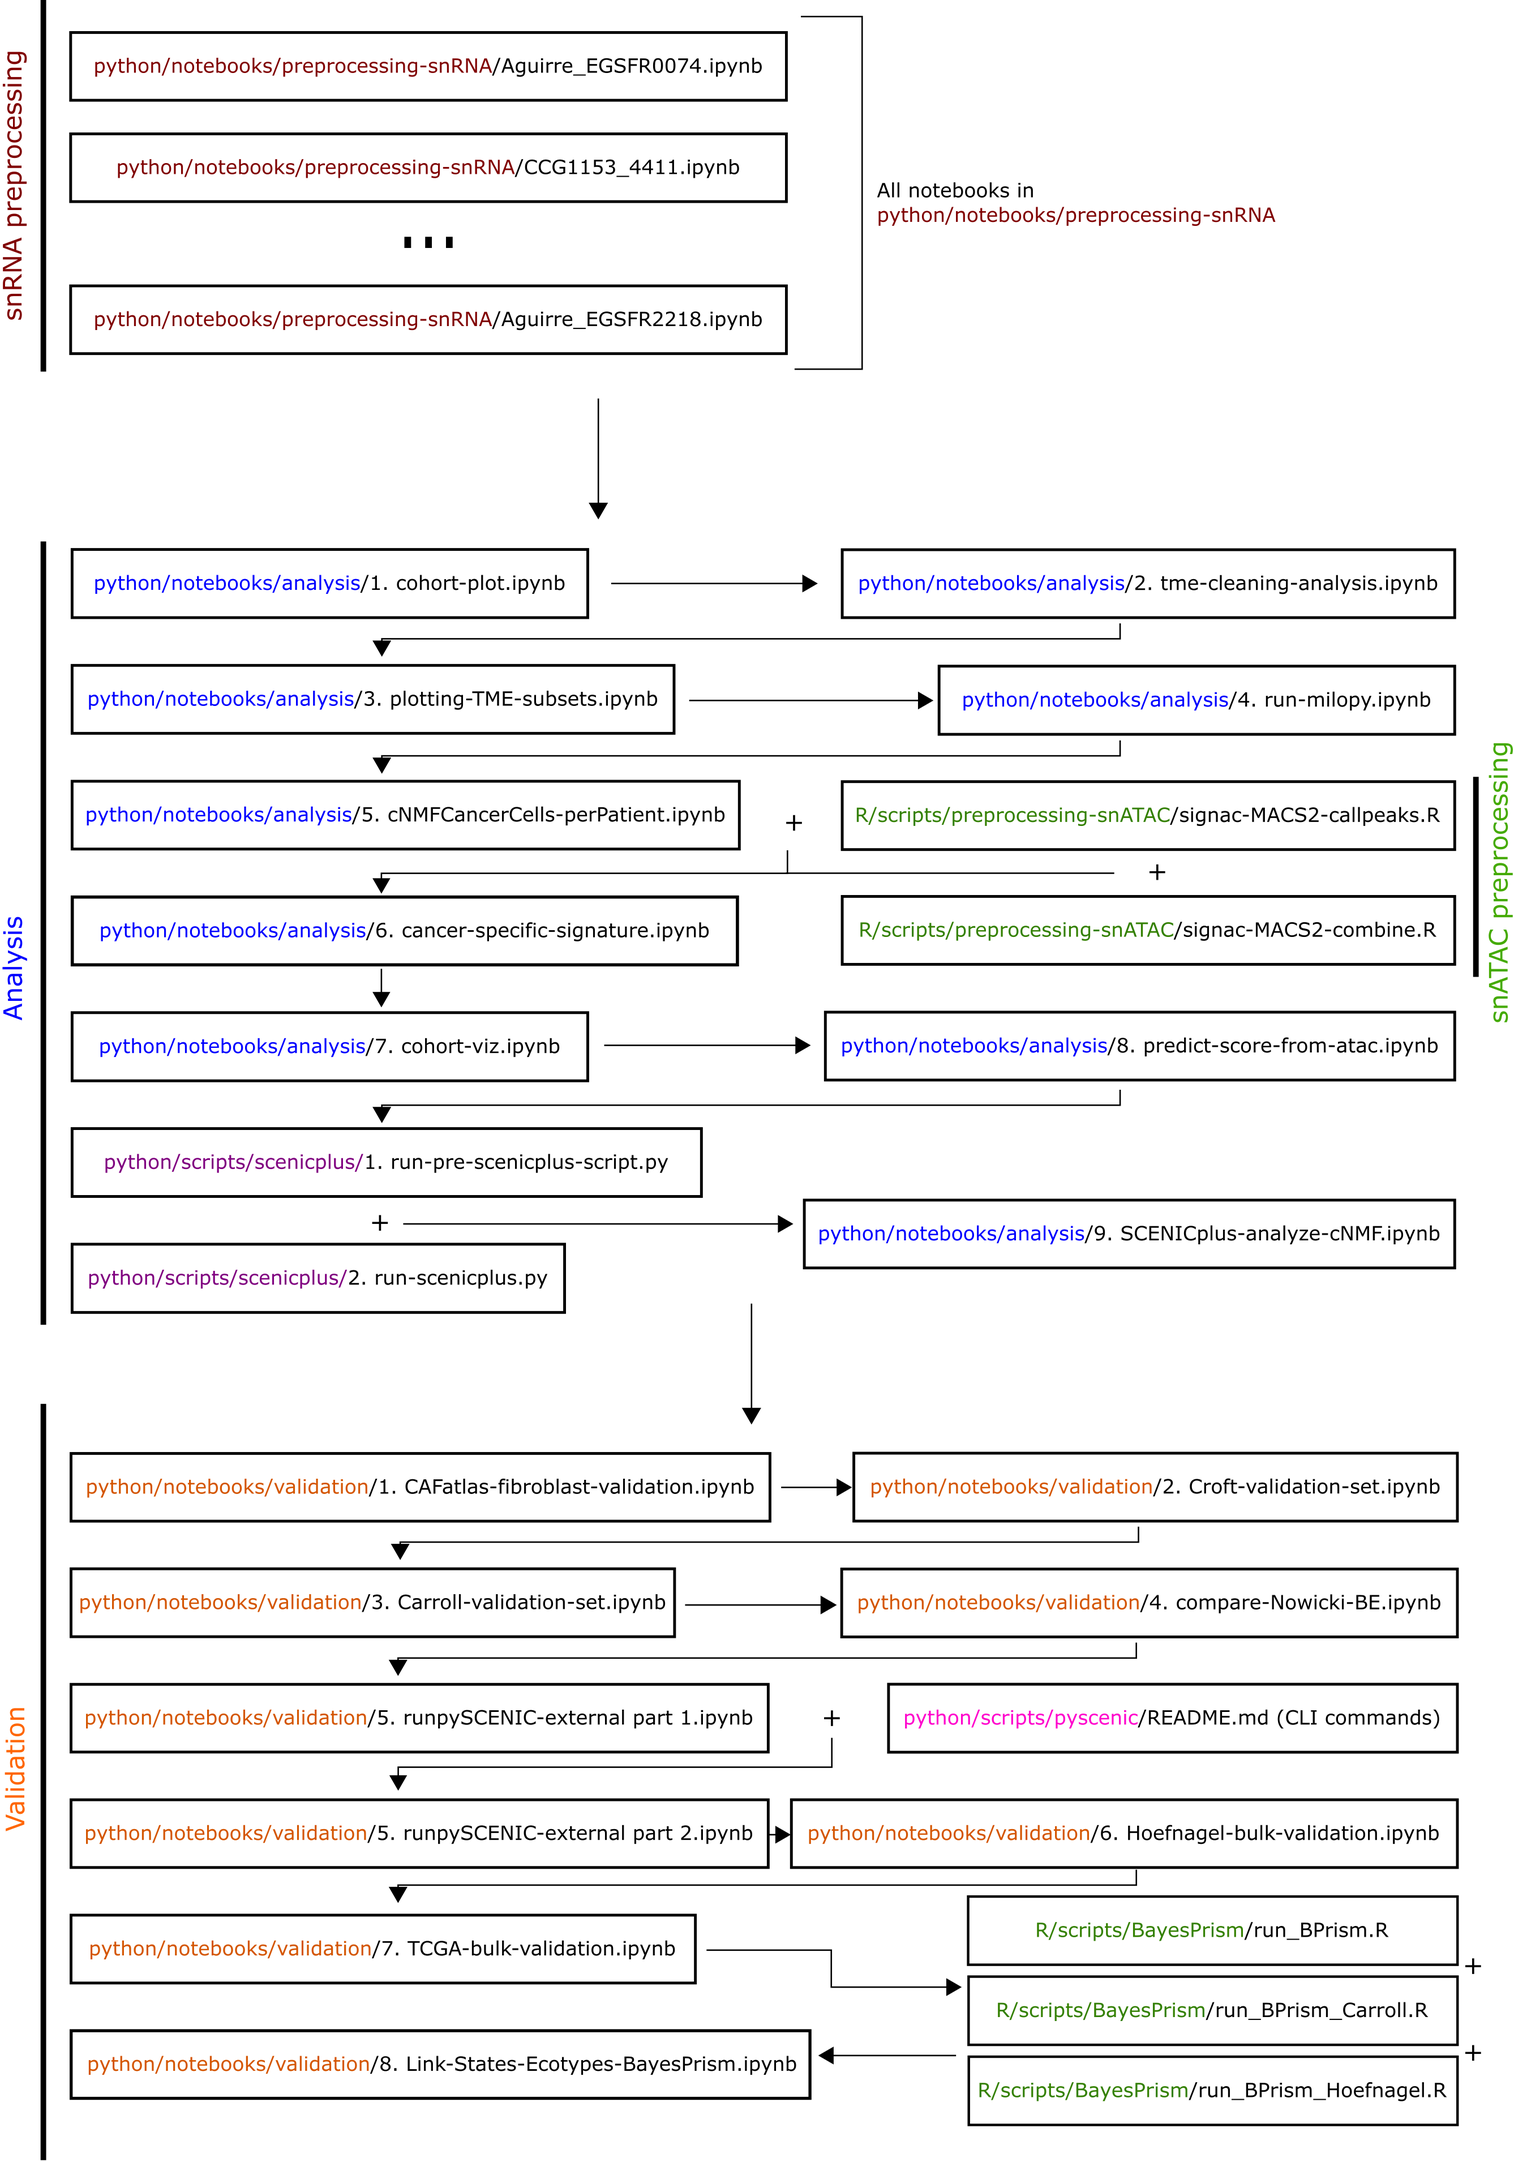
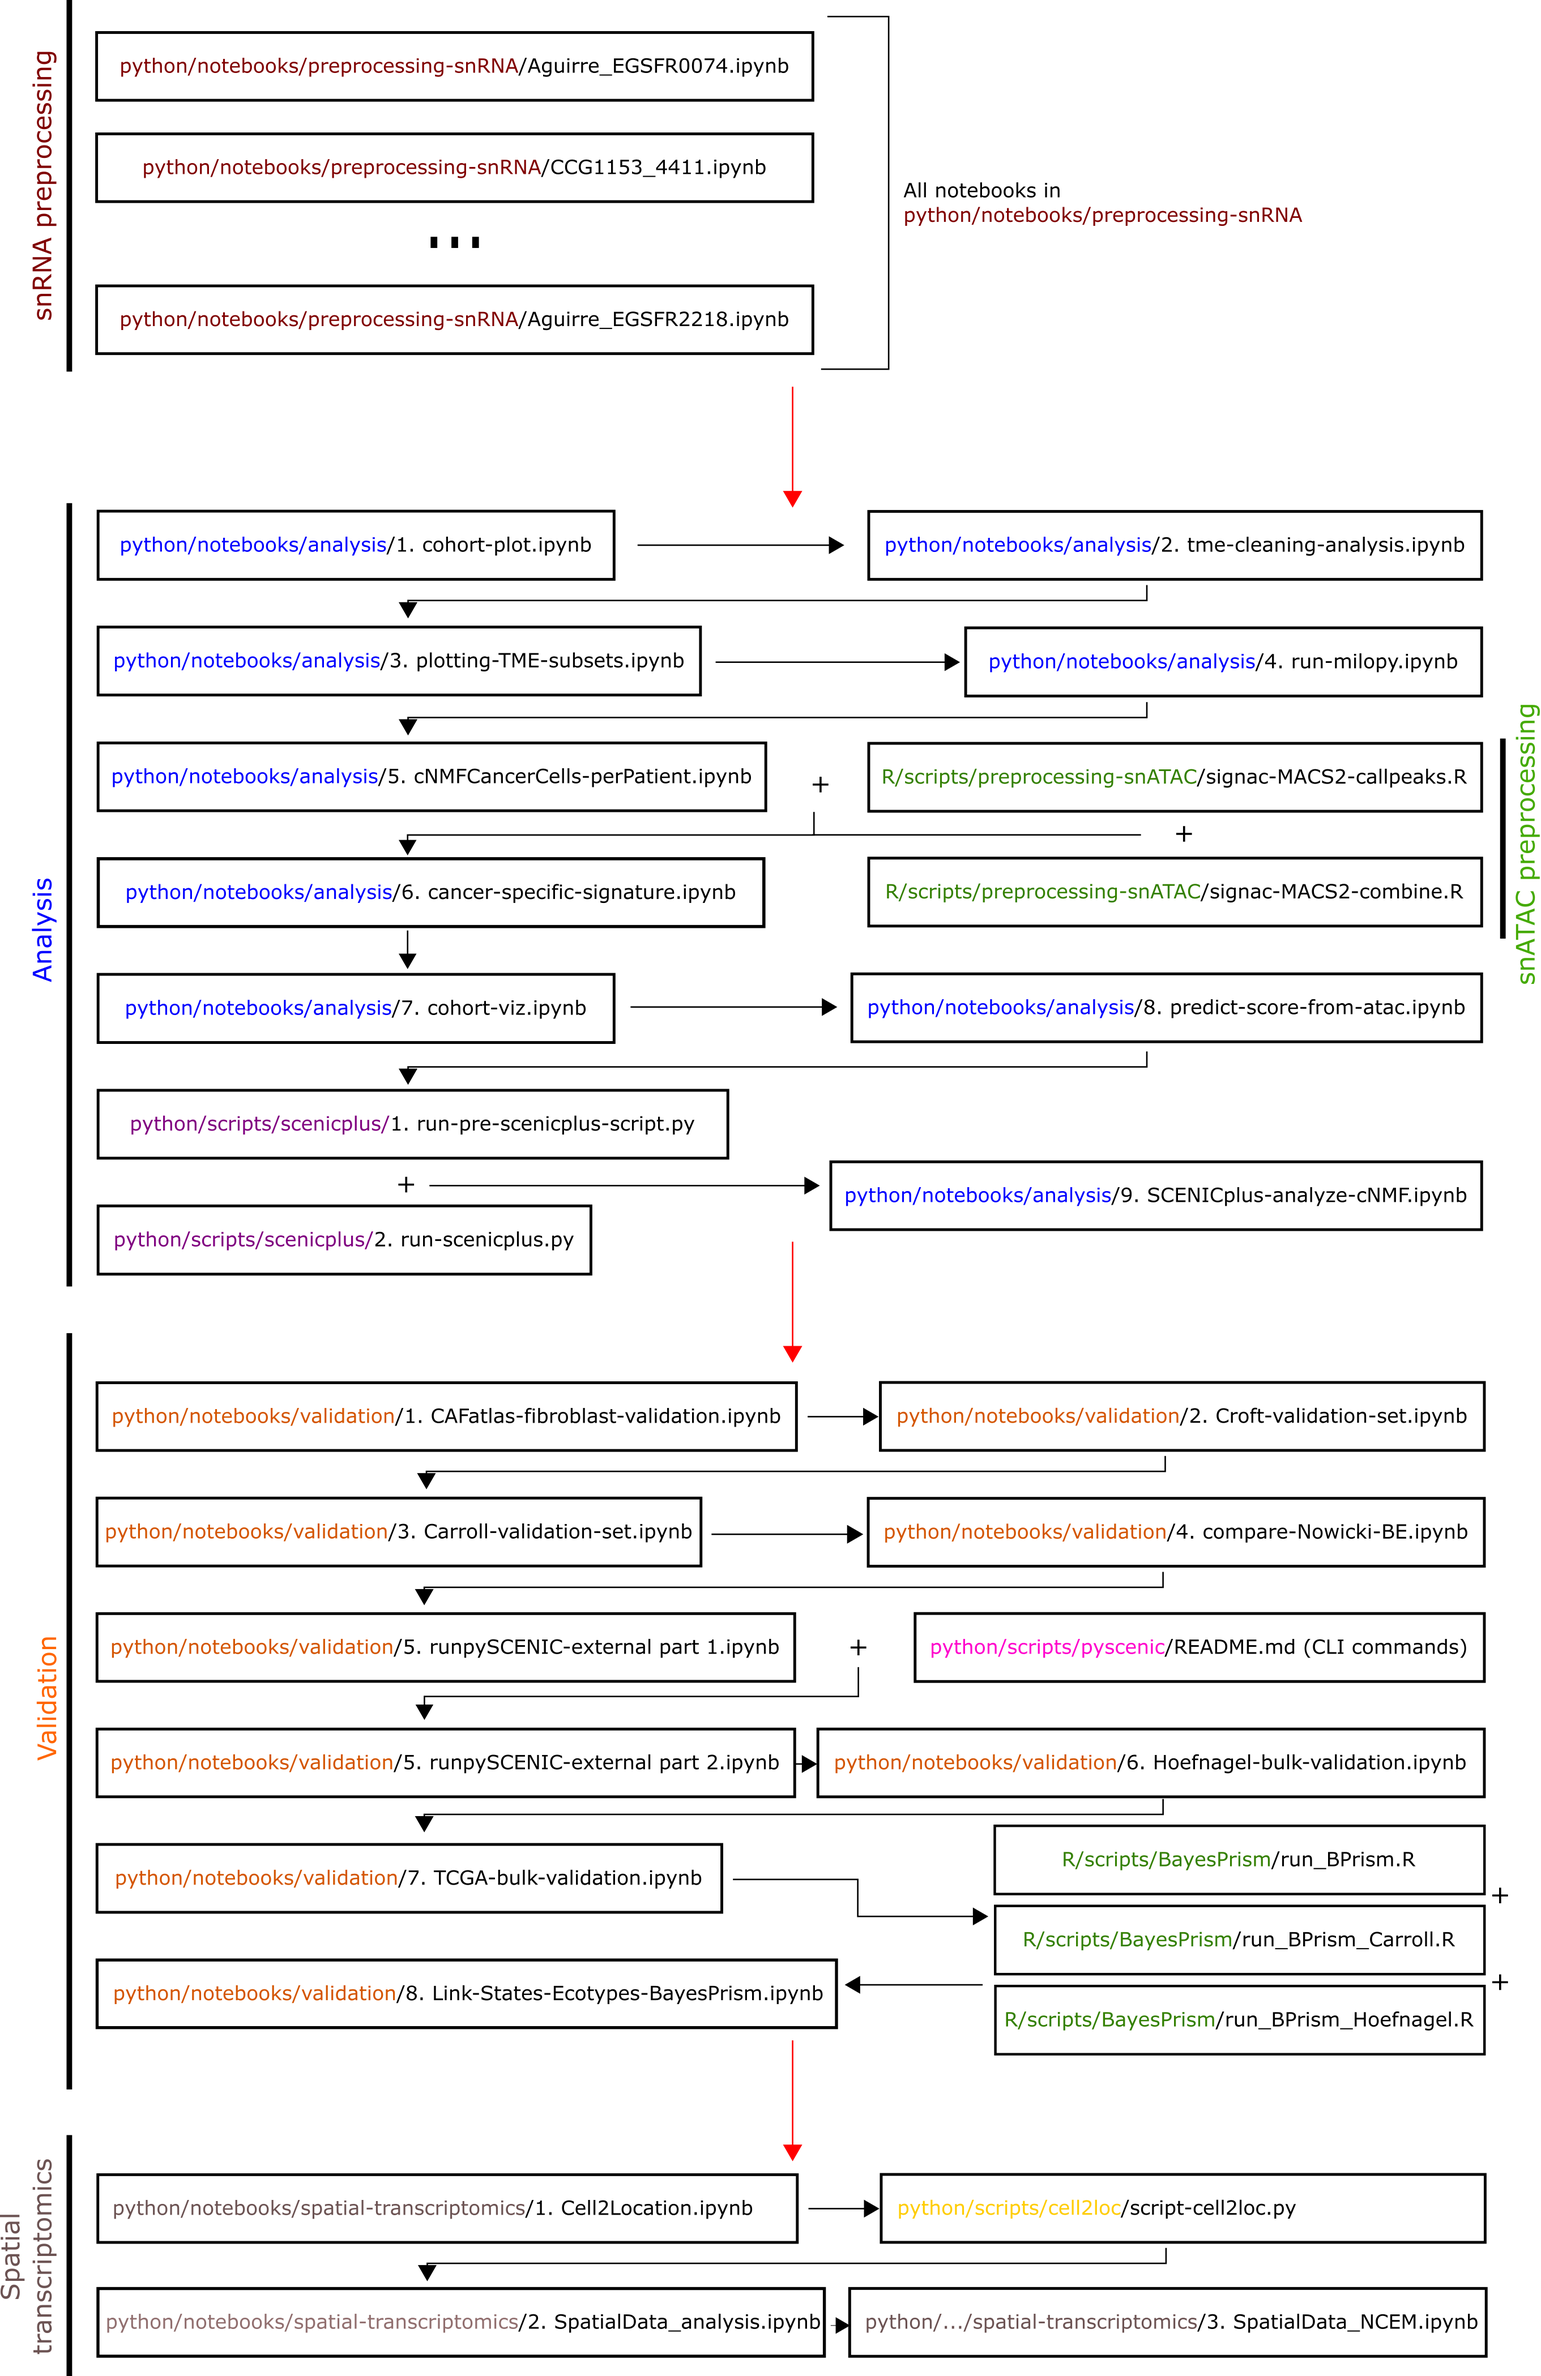
update-repro-graph

diff --git a/README.md b/README.md
@@ -78,7 +78,7 @@ In the original paper, for simplicity patients are referred to as P1 through P10
 | Annotation for local pycisTarget run | python/scripts/scenicplus/1. run-pre-scenicplus-script.py | This is required if the HPC used to run pycisTarget does not have access to the internet |   [Download](TBD)|
 | Annotation for local SCENIC+ search space run | python/scripts/scenicplus/2. run-scenicplus-script.py | This is required if the HPC used to run SCENIC+ does not have access to the internet |   [Download](TBD), this contains two files, 'annot_ensembl.csv' and 'chromsizes_ensembl.csv'. More info on why we need to do this can be found in this [issue](https://github.com/aertslab/scenicplus/issues/117)|
 | List of Lambert et al. TF names | python/scripts/scenicplus/2. run-scenicplus-script.py | List of all human TFs used for the search space | Download can be done using `!wget -O utoronto_human_tfs_v_1.01.txt  http://humantfs.ccbr.utoronto.ca/download/v_1.01/TF_names_v_1.01.txt`, as recommended in the [SCENIC+ tutorial](https://scenicplus.readthedocs.io/en/latest/pbmc_multiome_tutorial.html). FYI, this is the same list as above, simply formatted for the SCENIC+ run|
-| Omnipath database of intercellular communication | python/notebooks/spatial-transcriptomics/2.%20SpatialData_CNVanalysis.ipynb | List of ligand receptor interactions aggregated with omnipath, used to run LIGREC, a Squipy implementation of CellPhoneDB | The user should run [omnipath.interactions.import_intercell_network](https://omnipath.readthedocs.io/en/latest/api/omnipath.interactions.import_intercell_network.html#omnipath.interactions.import_intercell_network) with default parameters and save the resulting csv. NOTE: we use the presaved .csv because the HPC used doesn't have access to the internet; otherwise this is equivalent to running Squidpy's LIGREC with default parameters - the same database is automatially downloaded|
+| Omnipath database of intercellular communication | python/notebooks/spatial-transcriptomics/2. SpatialData_analysis.ipynb | List of ligand receptor interactions aggregated with omnipath, used to run LIGREC, a Squipy implementation of CellPhoneDB | The user should run [omnipath.interactions.import_intercell_network](https://omnipath.readthedocs.io/en/latest/api/omnipath.interactions.import_intercell_network.html#omnipath.interactions.import_intercell_network) with default parameters and save the resulting csv. NOTE: we use the presaved .csv because the HPC used doesn't have access to the internet; otherwise this is equivalent to running Squidpy's LIGREC with default parameters - the same database is automatially downloaded|
 
 
 

diff --git a/code/python/notebooks/spatial-transcriptomics/README.md b/code/python/notebooks/spatial-transcriptomics/README.md
@@ -16,7 +16,7 @@ These notebooks should be run in the following order:
 
 ## **HERE the cell2loc scripts should be run** (see instructions [here](https://github.com/vanallenlab/EAC-multiome/tree/main/code/python/scripts/cell2loc))
 
-## 2. `SpatialData_CNVanalysis.ipynb`
+## 2. `SpatialData_analysis.ipynb`
 
 - `spatial_dir = pl.Path("/add/path/here/SpaceRanger_output/")`: path to the where the spatial data is saved (**DWNL**). Should contain one folder per sample named "sample_name".
 - `cell2location_results_dir = pl.Path("/add/path/here/Cell2Location_results/")`: path to where the cell2location results were saved after running [`script-cell2loc.py`](https://github.com/vanallenlab/EAC-multiome/blob/main/code/python/scripts/cell2loc/script-cell2loc.py). 
